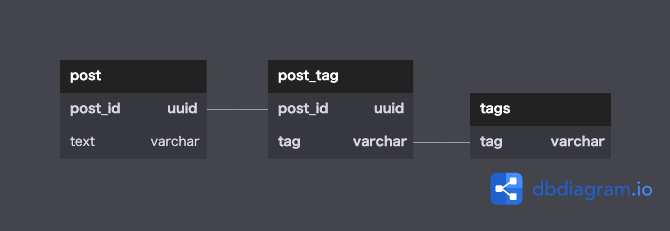
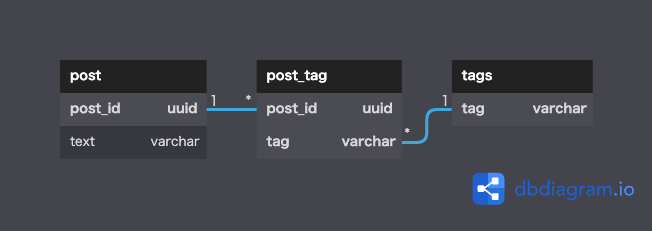
「データベース設計のアンチパターンを学ぶ1」の文言や画像を微修正

diff --git a/データベース設計のアンチパターンを学ぶ1/README.md b/データベース設計のアンチパターンを学ぶ1/README.md
@@ -3,7 +3,7 @@
 
 ### 課題1
 
-- 『SQLアンチパターン』の「1章 ジェイウォーク(信号無視)で挙げられている問題点
+- 『SQLアンチパターン』の「1章 ジェイウォーク(信号無視)」で挙げられている問題点
   - 特定のタグが付けられた投稿の検索
     - 検索条件にパターンマッチが必要
       - 記述によっては意図しない結果が返却される可能性がある
@@ -30,7 +30,7 @@
 
 ### 課題2
 
-タグをtagテーブルに切り出し、
+タグをtagテーブルに切り出し、  
 postテーブルとの間に交差テーブルを設置した。
 
 ![モデリング図](データベース設計のアンチパターンを学ぶ1.png)
@@ -38,12 +38,11 @@ postテーブルとの間に交差テーブルを設置した。
 
 
 ### 課題3
-あるエンティティに対して、ある属性の値が複数付与されるケースで発生しやすいと考えられる。
-特に、初めは値が１つしか付与されない想定だったが、追加要件により複数付与されることになった場合。
+あるエンティティに対して、ある属性の値が複数付与されるケースで発生しやすいと考えられる。  
+特に、初めは値が１つしか付与されない想定だったが、追加要件により複数付与されることになった場合など。  
 例
 - 製品に対するバグ
-- ECサイト上でのお客さんと住所
-  - amazonは複数住所に対応しているが、対応していないサイトも多そう。
+- ECサイト上でのお客さんの住所
 - 担当従業員と店舗
   - 「店舗に属する従業員」という視点であれば問題ないが、
   「従業員は１店舗に属する」という視点の場合はこのアンチパターンが発生しそう。
